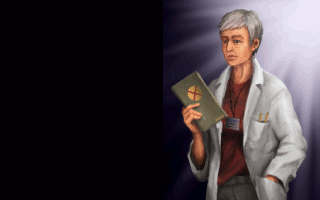
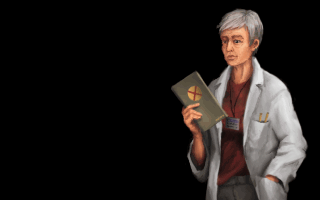
new art, fixes

Changed region(s): [[0.5, 0.0, 1.0, 1.0], [0.5312, 0.81, 0.625, 0.93], [0.5312, 0.57, 0.5938, 0.66]]

diff --git a/LICENSE.md b/LICENSE.md
@@ -6,13 +6,15 @@ Here is a list of those music tracks:
 
 I am also ordered some art assets from professional pixel-artists in order to provide the best experience to my players I can offer. Those orders are partially funded by Patreon support and donations, and mostly from my personal budget, so I have personal rights to use it. I maid a decision to distribute those (and only those) assets under **All Rights Reserved license.** 
 Here is a list of that assets:
-* Engineer_Chief.png
+* Commando_CPAL.png
+* Engineer_Chief_CPAL.png
 * Intel_lady_CPAL.png
-* Intel_lady.png
+* Store_Chief_CPAL.png
 * RnD_Chief_CPAL.png
-* RnD_Chief.png
 * intro2_2.png
 * intro2_3.png
+* intro2_4.png
+* intro2_5.png
 * ufopedia_SeekerDrone_CPAL.png
 * ufopedia_MIB_AGENT_CPAL.png
 * ufopedia_SeekerDrone_autopsy_CPAL.png
@@ -22,6 +24,7 @@ Here is a list of that assets:
 * inventory_CHUPACABRA.png
 * ufopedia_CHUPACABRA_AUTOPSY_CPAL.png
 * ufopedia_CHUPACABRA_CPAL.png
+* Extracted_MIB_Chip_CPAL.png
 
 Any other content, created by me, contributed for free by the community members, and of course, adapted or reused from another projects is distributed under **CC BY-NC-SA 4.0**
 

diff --git a/README.md b/README.md
@@ -35,7 +35,7 @@ I would like to give special thanks to the contributors to my project (in order 
 * **pedroterzero** - help with cone lightning engine feature development;
 * **Buscher** - great help with testing, fixing bugs in the engine code and rulesets;
 * **Xom126** - unit spritesheets, corpse sprites.
-* **ahegao** - mission design, deployment rules, mission-specific maps, item rulesets and balance.
+* **ahegao aka Julian901** - mission design, deployment rules, mission-specific maps, item rulesets, balance and lore articles.
 
 ## Support
 
